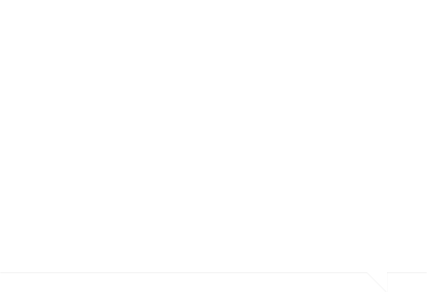
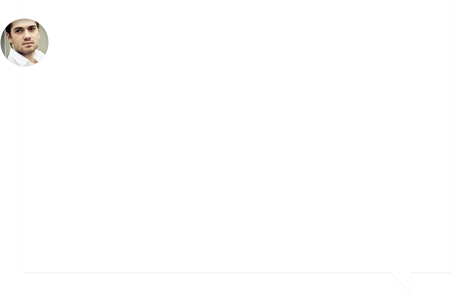
almost all with 960

Changed region(s): [[0.0, 0.0616, 0.1218, 0.2466]]

diff --git a/project10/css/style.scss b/project10/css/style.scss
@@ -97,7 +97,7 @@ ul {
 
 .slider {
     width: 100%;
-    height: 400px;
+    height: 270px;
     margin-top: 184px;
     display: flex;
     justify-content: space-around;
@@ -136,6 +136,7 @@ ul {
     & div:last-of-type {
         width: 192px;
         height: 262px;
+        margin-top: -26px;
         background-image: url(../img/iphone.png);
     }
         
@@ -230,16 +231,10 @@ ul {
   width: 430px;
   height: 260px;
   margin-top: 69px;
-  margin-left: 50px;
   padding-top: 27px;
+    padding-right: 30px;
   background-image: url(../img/blog-bg.png);
     background-repeat: no-repeat;
-
-  img:first-of-type {
-    float: left;
-    position: relative;
-    top: -8px;
-  }
 
   h3 {
     font-size: 24px;
@@ -250,7 +245,6 @@ ul {
   span {
       font-size: 24px;
     font-family: "League Gothic";
-    margin-left: 61px;
     text-transform: uppercase;
      color: #edbfff;
    }
@@ -263,8 +257,8 @@ ul {
    }
 
    img:last-of-type {
-    margin-top: 145px;
-    margin-left: 170px;
+    margin-top: 100px;
+    margin-left: 200px;
    }
 }
 
@@ -318,26 +312,69 @@ ul {
 }
 
 .logos {
-    width: 187px;
-    height: 294px;
-  margin-top: 135px;
+    display: inherit;
+    justify-content: space-around;
+    width: 776px;
+    height: 70px;
+  margin-top: 90px;
 margin-left: 79px;
   padding-left: 50px;
-  border-top: 1px solid #fefefe;
-    background-image: url(../img/logos.png);
+    
+    div {
+        width: 74px;
+        height: 70px;
+        background-image: url(../img/logos-sprite.png);
+        background-repeat: no-repeat;
+    }
+    
+    @for $s from 1 through 6 {
+        div:nth-of-type(#{$s}) {
+            background-position: (-133*#{$s})px 0px;
+        }
+    }
   }
 
 footer {
-    margin-top: 50px;
     text-align: center;
     width: 100%;
       height: 200px;
     background-image: url(../img/footer-bg.jpg);
     box-shadow: inset 0px 2px 4px 0px rgba(0,0,0,1);
+        display: inherit;
+    justify-content: space-around;
+    align-items: center;
+    
+      nav {
+      height: 21px;
+      margin-left: 140px;
+      padding-left: 5px;
+      padding-right: 5px;
+      padding-bottom: 6px;
+      text-transform: uppercase;
+      
+      li {
+          display: inline-block;
+          margin-right: 20px;
+          
+          &:last-of-type {
+              margin-right: 0px;
+          }
+      }
+
+      a {
+          display: block;
+        color: white;
+        font-size: 20px;
+        text-decoration: none;
+
+        &:hover {
+          text-shadow: 0px 0px 10px rgba(255, 255, 255, 1);
+             border-bottom: 4px solid #edbfff;
+        }
+      }
+    }
     
     p {
-    margin-top: 42px;
-    margin-left: 78px;
     color: white;
     font-size: 12px;
     text-shadow: 1px 2px 2px rgba(0, 0, 0, 0.4);
@@ -367,5 +404,8 @@ for about -     & div:last-child {
     }
 for content -     flex-direction: inherit;  align-items: center;
 
+for logos - height: 294px;
+
+footer - p -  margin-left: 78px; margin-top: 42px;
 }
 */

diff --git a/project10/css/style.css b/project10/css/style.css
@@ -85,7 +85,7 @@ ul {
 */
 .slider {
   width: 100%;
-  height: 400px;
+  height: 270px;
   margin-top: 184px;
   display: flex;
   justify-content: space-around;
@@ -121,6 +121,7 @@ ul {
 .slider .wrapper div:last-of-type {
   width: 192px;
   height: 262px;
+  margin-top: -26px;
   background-image: url(../img/iphone.png);
 }
 
@@ -204,15 +205,10 @@ ul {
   width: 430px;
   height: 260px;
   margin-top: 69px;
-  margin-left: 50px;
   padding-top: 27px;
+  padding-right: 30px;
   background-image: url(../img/blog-bg.png);
   background-repeat: no-repeat;
-}
-.blog img:first-of-type {
-  float: left;
-  position: relative;
-  top: -8px;
 }
 .blog h3 {
   font-size: 24px;
@@ -222,7 +218,6 @@ ul {
 .blog span {
   font-size: 24px;
   font-family: "League Gothic";
-  margin-left: 61px;
   text-transform: uppercase;
   color: #edbfff;
 }
@@ -233,8 +228,8 @@ ul {
   font-size: 15px;
 }
 .blog img:last-of-type {
-  margin-top: 145px;
-  margin-left: 170px;
+  margin-top: 100px;
+  margin-left: 200px;
 }
 
 .updates {
@@ -286,26 +281,75 @@ ul {
 }
 
 .logos {
-  width: 187px;
-  height: 294px;
-  margin-top: 135px;
+  display: inherit;
+  justify-content: space-around;
+  width: 776px;
+  height: 70px;
+  margin-top: 90px;
   margin-left: 79px;
   padding-left: 50px;
-  border-top: 1px solid #fefefe;
-  background-image: url(../img/logos.png);
+}
+.logos div {
+  width: 74px;
+  height: 70px;
+  background-image: url(../img/logos-sprite.png);
+  background-repeat: no-repeat;
+}
+.logos div:nth-of-type(1) {
+  background-position: -133*1 px 0px;
+}
+.logos div:nth-of-type(2) {
+  background-position: -133*2 px 0px;
+}
+.logos div:nth-of-type(3) {
+  background-position: -133*3 px 0px;
+}
+.logos div:nth-of-type(4) {
+  background-position: -133*4 px 0px;
+}
+.logos div:nth-of-type(5) {
+  background-position: -133*5 px 0px;
+}
+.logos div:nth-of-type(6) {
+  background-position: -133*6 px 0px;
 }
 
 footer {
-  margin-top: 50px;
   text-align: center;
   width: 100%;
   height: 200px;
   background-image: url(../img/footer-bg.jpg);
   box-shadow: inset 0px 2px 4px 0px black;
+  display: inherit;
+  justify-content: space-around;
+  align-items: center;
+}
+footer nav {
+  height: 21px;
+  margin-left: 140px;
+  padding-left: 5px;
+  padding-right: 5px;
+  padding-bottom: 6px;
+  text-transform: uppercase;
+}
+footer nav li {
+  display: inline-block;
+  margin-right: 20px;
+}
+footer nav li:last-of-type {
+  margin-right: 0px;
+}
+footer nav a {
+  display: block;
+  color: white;
+  font-size: 20px;
+  text-decoration: none;
+}
+footer nav a:hover {
+  text-shadow: 0px 0px 10px white;
+  border-bottom: 4px solid #edbfff;
 }
 footer p {
-  margin-top: 42px;
-  margin-left: 78px;
   color: white;
   font-size: 12px;
   text-shadow: 1px 2px 2px rgba(0, 0, 0, 0.4);
@@ -333,6 +377,9 @@ for about -     & div:last-child {
     }
 for content -     flex-direction: inherit;  align-items: center;
 
+for logos - height: 294px;
+
+footer - p -  margin-left: 78px; margin-top: 42px;
 }
 */
 

diff --git a/project10/index.html b/project10/index.html
@@ -61,10 +61,8 @@
       <div class="content">
 
     <div class="blog">
-      <img src="img/blog-icon.png">
-      <h3>Pingbuller</h3>
-      <span>Starts here</span>
-      <p>Lorem ipsum dolor sit amet, consectetur adipisicing elit, sed do eiusmod tempor. Lorem ipsum dolor sit amet, consectetur adipisicing elit.</p>
+      <h3>Pingbuller&nbsp;<span>Starts here</span></h3>
+      <p>Lorem ipsum dolor sit amet, consectetur adipisicing elit, sed do eiusmod tempor. Lorem ipsum dolor sit amet, consectetur adipisicing elit.Lorem ipsum dolor sit amet, consectetur adipisicing elit, sed do eiusmod tempor. Lorem ipsum dolor sit amet, consectetur adipisicing elit.</p>
       <img src="img/blog-nav.png">
     </div>
 
@@ -90,11 +88,27 @@
     </div>
 
     <div class="logos">
+        <div></div>
+        <div></div>
+        <div></div>
+        <div></div>
+        <div></div>
+        <div></div>
     </div>
 
           </div>
 
     <footer>
+              <nav>
+          <ul>
+              <li><a href="#">Home</a></li>
+              <li><a href="#">About</a></li>
+              <li><a href="#">Blog</a></li>
+              <li><a href="#">Products</a></li>
+              <li><a href="#">Lorem ipsum</a></li>
+              <li><a href="#">Dolor sit amet</a></li>
+          </ul>
+      </nav>
         <p>Designed by <a href="#">Pingbull AS</a></p>
     </footer>
 
